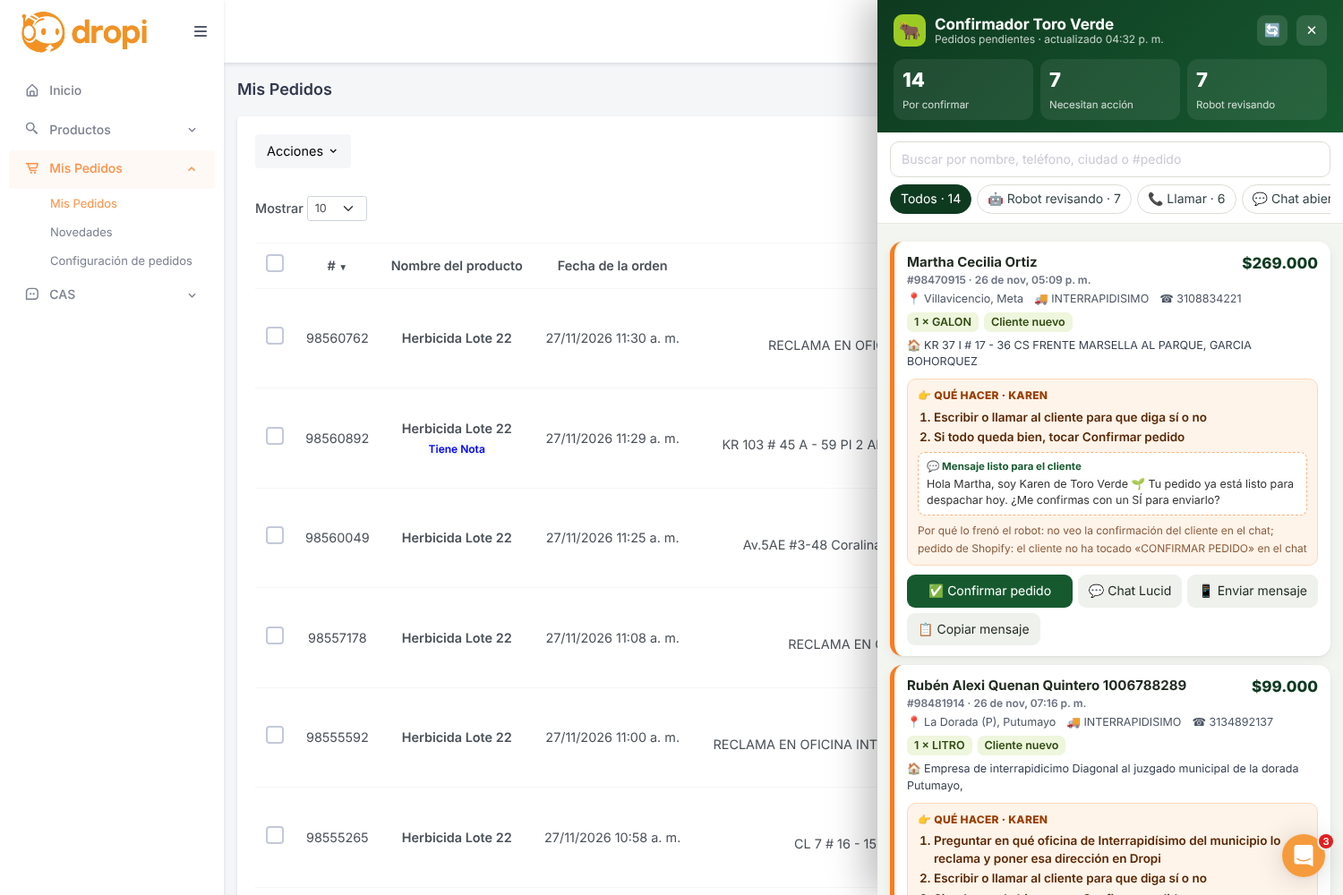
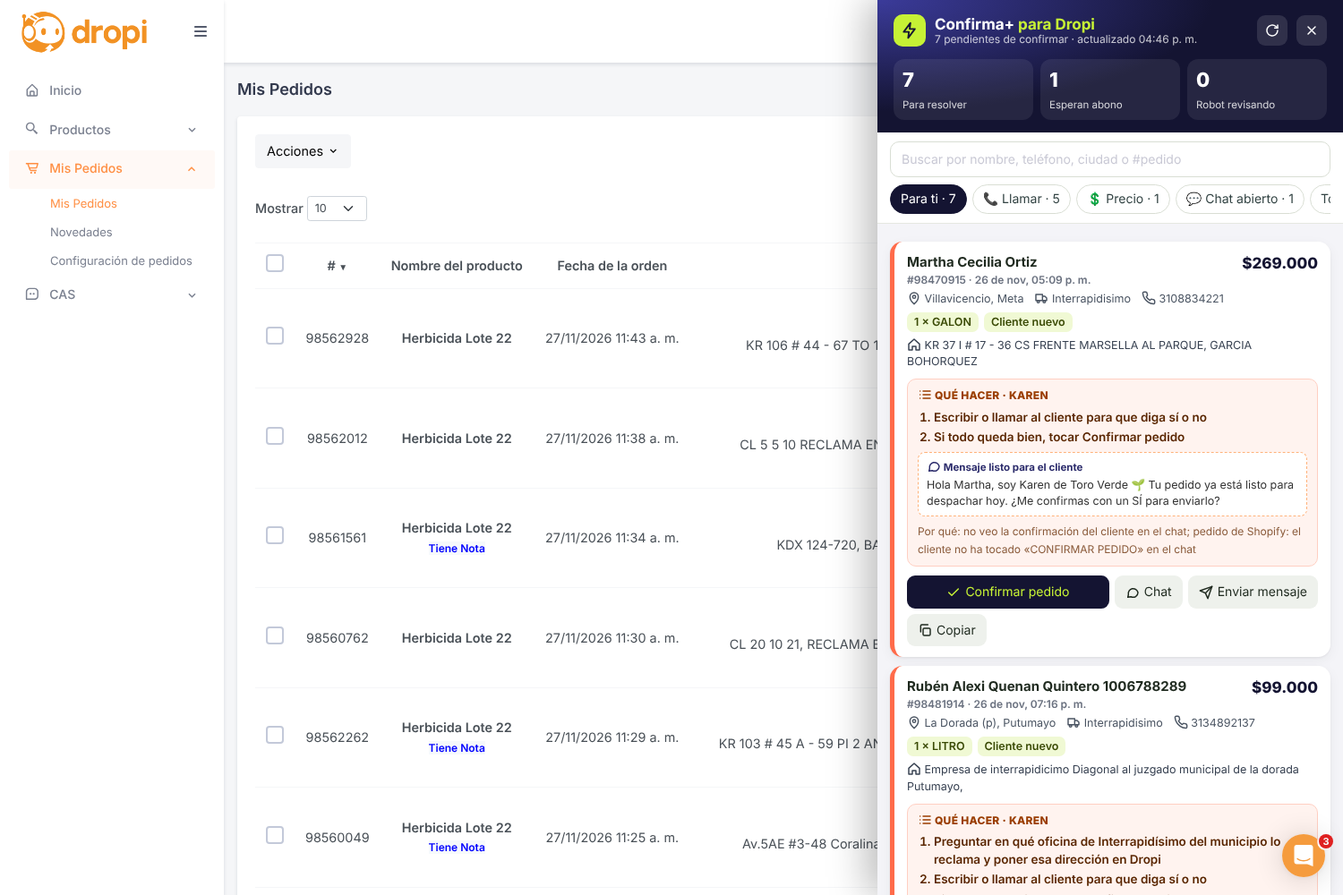
Confirma+ para Dropi v3 universal; plantilla aclarar dato; regla CAS
Claude-Session: https://claude.ai/code/session_019w2oDTrzDqc8mTA8QA1NJr

diff --git a/toro-verde/extension-dropi/confirmador.js b/toro-verde/extension-dropi/confirmador.js
@@ -34,14 +34,14 @@
   // ───────── Diseño Toro Verde (Ronald 27-11: «diseño único, buena experiencia de usuario») ─────────
   const css = document.createElement('style');
   css.textContent = `
-  :root{--tv-osc:#0e3a20;--tv-ver:#16592f;--tv-lim:#9ccc24;--tv-nar:#ff7a1a;--tv-roj:#e5484d;--tv-gri:#6b7280;--tv-fon:#f3f5f0}
+  :root{--tv-osc:#141432;--tv-ver:#2b2b6b;--tv-lim:#c6f135;--tv-nar:#ff6b4a;--tv-roj:#e5484d;--tv-gri:#6b7280;--tv-fon:#f4f4f8}
   #tvc-btn{position:fixed;right:22px;bottom:96px;z-index:100000;display:flex;align-items:center;gap:10px;background:var(--tv-osc);color:#fff;border:0;border-radius:999px;padding:12px 18px 12px 14px;font:700 15px 'Segoe UI',system-ui,sans-serif;box-shadow:0 10px 30px #0e3a2066;cursor:pointer;transition:transform .15s}
-  #tvc-btn:hover{transform:translateY(-2px)}#tvc-btn .ic{width:30px;height:30px;border-radius:50%;background:var(--tv-lim);display:grid;place-items:center;font-size:17px}
+  #tvc-btn:hover{transform:translateY(-2px)}#tvc-btn .ic{width:30px;height:30px;border-radius:50%;background:var(--tv-lim);color:var(--tv-osc);display:grid;place-items:center;font-size:17px}
   #tvc-btn .n{background:var(--tv-nar);border-radius:999px;padding:1px 8px;font-size:13px}
   #tvc{position:fixed;top:0;right:0;width:520px;max-width:100vw;height:100vh;z-index:100001;background:var(--tv-fon);box-shadow:-12px 0 40px #0004;display:none;flex-direction:column;font:14px/1.45 'Segoe UI',system-ui,sans-serif;color:#1f2a1f;animation:tvin .2s ease}
   @keyframes tvin{from{transform:translateX(40px);opacity:0}to{transform:none;opacity:1}}
-  #tvc .hd{background:linear-gradient(135deg,var(--tv-osc),var(--tv-ver));color:#fff;padding:16px 18px 14px}
-  #tvc .hd .r1{display:flex;align-items:center;gap:10px}#tvc .hd .lg{width:36px;height:36px;border-radius:10px;background:var(--tv-lim);display:grid;place-items:center;font-size:20px}
+  #tvc .hd{background:radial-gradient(120% 140% at 0% 0%,#3b3b9a 0%,var(--tv-osc) 60%);color:#fff;padding:16px 18px 14px}
+  #tvc .hd .r1{display:flex;align-items:center;gap:10px}#tvc .hd .lg{width:36px;height:36px;border-radius:10px;background:var(--tv-lim);color:var(--tv-osc);display:grid;place-items:center;font-size:20px}
   #tvc .hd b{font-size:17px;flex:1;line-height:1.1}#tvc .hd small{display:block;font-weight:400;opacity:.75;font-size:12px}
   #tvc .hd button{background:#ffffff1f;color:#fff;border:0;border-radius:9px;width:34px;height:34px;cursor:pointer;font-size:15px}#tvc .hd button:hover{background:#ffffff33}
   #tvc .kpi{display:grid;grid-template-columns:repeat(3,1fr);gap:8px;margin-top:14px}
@@ -56,18 +56,19 @@
   #tvc .cd .top{display:flex;justify-content:space-between;align-items:flex-start;padding:12px 14px 4px}#tvc .cd .nm{font-weight:700;font-size:15px}#tvc .cd .id{color:var(--tv-gri);font-size:12px;font-weight:600}
   #tvc .cd .tt{font-weight:800;font-size:17px;color:var(--tv-osc)}
   #tvc .cd .mt{padding:0 14px;color:#4b5563;font-size:12.5px;display:flex;flex-wrap:wrap;gap:4px 12px}
-  #tvc .cd .pr{padding:6px 14px 0;display:flex;flex-wrap:wrap;gap:6px}#tvc .cd .pr span{background:#eef6dd;color:#2e4a10;border-radius:7px;padding:2px 8px;font-size:12.5px;font-weight:600}
+  #tvc .cd .pr{padding:6px 14px 0;display:flex;flex-wrap:wrap;gap:6px}#tvc .cd .pr span{background:#f0f9d4;color:#3a4a05;border-radius:7px;padding:2px 8px;font-size:12.5px;font-weight:600}
   #tvc .cd .hs{border-radius:7px;padding:2px 8px;font-size:12px;font-weight:700}.hs.b{background:#dcfce7;color:#166534}.hs.m{background:#fef3c7;color:#92400e}.hs.x{background:#fee2e2;color:#991b1b}.hs.n{background:#eef0f3;color:#4b5563}
   #tvc .cd .dr{padding:6px 14px 0;font-size:12.5px;color:#374151}
-  #tvc .cd .qh{margin:10px 14px 0;background:#fff4ea;border:1px solid #ffd7b8;border-radius:10px;padding:9px 11px}
+  #tvc .cd .qh{margin:10px 14px 0;background:#fff3ef;border:1px solid #ffcfc2;border-radius:10px;padding:9px 11px}
   #tvc .cd .qh b{display:block;color:#9a3d00;font-size:13.5px}#tvc .cd .qh .qt{font-weight:800;color:#9a3d00;font-size:12px;text-transform:uppercase;letter-spacing:.3px}
   #tvc .cd .qh ol{margin:6px 0 6px 18px;padding:0;color:#5a2600;font-weight:600;font-size:13.5px}#tvc .cd .qh li{margin:3px 0}
   #tvc .cd .qh .dc{background:#fff;border:1px dashed #ffb27a;border-radius:8px;padding:7px 9px;margin:6px 0;font-size:12.5px;color:#333}#tvc .cd .qh .dc span{display:block;font-weight:700;color:var(--tv-ver);font-size:11.5px;margin-bottom:2px}
-  .tv-ojo{background:#9ca3af!important}#tvc .cd .qh small{color:#8a5a3a;font-size:12px}
+  .tv-ojo{background:#9ca3af!important;color:#fff!important}
+  .tvi{width:16px;height:16px;vertical-align:-3px;flex:none}#tvc .lg .tvi,#tvc-btn .ic .tvi{width:20px;height:20px}#tvc .cd .qh small{color:#8a5a3a;font-size:12px}
   #tvc .cd.rb .qh{background:#f3f4f2;border-color:#e2e5df}#tvc .cd.rb .qh b{color:#4b5563}
   #tvc .cd .ac{display:flex;flex-wrap:wrap;gap:6px;padding:10px 14px 12px}
-  #tvc .cd .ac button,#tvc .cd .ac a{border:0;border-radius:9px;padding:8px 12px;font:700 12.5px inherit;cursor:pointer;text-decoration:none;display:inline-flex;align-items:center;gap:5px}
-  .tv-ok{background:var(--tv-ver);color:#fff!important;flex:1;justify-content:center}.tv-ok:hover{background:var(--tv-osc)}
+  #tvc .cd .ac button,#tvc .cd .ac a{white-space:nowrap;border:0;border-radius:9px;padding:8px 12px;font:700 12.5px inherit;cursor:pointer;text-decoration:none;display:inline-flex;align-items:center;gap:5px}
+  .tv-ok{background:var(--tv-osc);color:var(--tv-lim)!important;flex:1;justify-content:center}.tv-ok:hover{background:#000}
   .tv-pr{background:var(--tv-nar);color:#fff!important}.tv-sec{background:#eef1ec;color:#1f2a1f!important}.tv-sec:hover{background:#e2e7de}
   #tvc .vc{text-align:center;color:var(--tv-gri);padding:40px 20px}#tvc .vc div{font-size:40px}
   #tvc-md{position:fixed;inset:0;z-index:100002;background:#0e3a2066;display:none;place-items:center;font:14px 'Segoe UI',system-ui,sans-serif}
@@ -76,26 +77,48 @@
   #tvc-md .bt{display:flex;gap:8px;justify-content:flex-end}#tvc-md button{border:0;border-radius:9px;padding:9px 14px;font:700 13px inherit;cursor:pointer}
   #tvc-ts{position:fixed;left:50%;bottom:28px;transform:translateX(-50%);z-index:100003;background:var(--tv-osc);color:#fff;padding:10px 16px;border-radius:10px;font:600 13.5px 'Segoe UI',system-ui;display:none;box-shadow:0 8px 24px #0004}`;
 
-  let pedidos = [], filtro = 'Todos', busca = '', actual = '';
+  const I = (d) => `<svg class="tvi" viewBox="0 0 24 24" fill="none" stroke="currentColor" stroke-width="2.2" stroke-linecap="round" stroke-linejoin="round">${d}</svg>`;
+  const IC = { bolt: I('<path d="M13 2 4 14h7l-1 8 9-12h-7z"/>'), ok: I('<path d="M20 6 9 17l-5-5"/>'), chat: I('<path d="M21 12a8 8 0 0 1-11.6 7.1L4 20l1-4.6A8 8 0 1 1 21 12z"/>'),
+    send: I('<path d="m22 2-7 20-4-9-9-4z"/><path d="M22 2 11 13"/>'), copy: I('<rect x="9" y="9" width="12" height="12" rx="2"/><path d="M5 15V5a2 2 0 0 1 2-2h10"/>'),
+    tag: I('<path d="M20.6 13.4 13.4 20.6a2 2 0 0 1-2.8 0L3 13V3h10l7.6 7.6a2 2 0 0 1 0 2.8z"/><circle cx="7.5" cy="7.5" r="1.5"/>'), pin: I('<path d="M12 22s7-6.2 7-12a7 7 0 1 0-14 0c0 5.8 7 12 7 12z"/><circle cx="12" cy="10" r="2.5"/>'),
+    truck: I('<path d="M3 6h11v10H3zM14 9h4l3 3v4h-7"/><circle cx="7" cy="18" r="2"/><circle cx="17" cy="18" r="2"/>'), phone: I('<path d="M22 16.9v3a2 2 0 0 1-2.2 2 19.8 19.8 0 0 1-8.6-3.1 19.5 19.5 0 0 1-6-6A19.8 19.8 0 0 1 2.1 4.2 2 2 0 0 1 4.1 2h3a2 2 0 0 1 2 1.7c.1.9.4 1.8.7 2.7a2 2 0 0 1-.5 2.1L8 9.8a16 16 0 0 0 6 6l1.3-1.3a2 2 0 0 1 2.1-.5c.9.3 1.8.6 2.7.7a2 2 0 0 1 1.7 2z"/>'),
+    home: I('<path d="M3 11 12 3l9 8v10h-6v-6H9v6H3z"/>'), refresh: I('<path d="M21 12a9 9 0 1 1-3-6.7L21 8"/><path d="M21 3v5h-5"/>'), x: I('<path d="M18 6 6 18M6 6l12 12"/>'),
+    alert: I('<path d="M12 9v4M12 17h.01"/><path d="M10.3 3.9 1.8 18a2 2 0 0 0 1.7 3h17a2 2 0 0 0 1.7-3L13.7 3.9a2 2 0 0 0-3.4 0z"/>'), list: I('<path d="M9 6h12M9 12h12M9 18h12M4 6h.01M4 12h.01M4 18h.01"/>') };
+  let pedidos = [], filtro = 'Para ti', busca = '', actual = '';
   const toast = (t) => { const e = document.getElementById('tvc-ts'); e.textContent = t; e.style.display = 'block'; clearTimeout(e._t); e._t = setTimeout(() => e.style.display = 'none', 2600); };
   const corto = (q) => /llam/i.test(q) ? '📞 Llamar' : /plata|pago|banco/i.test(q) ? '💰 Pago' : /precio/i.test(q) ? '💲 Precio' : /cantidad/i.test(q) ? '📦 Cantidad'
-    : /direcc|oficina/i.test(q) ? '📍 Dirección' : /devolverla al bot|conversaci/i.test(q) ? '💬 Chat abierto' : /abono|devuelve/i.test(q) ? '🔁 Abono' : /Ronald/i.test(q) ? '👤 Ronald' : /robot/i.test(q) ? '🤖 Robot revisando' : '🔎 Revisar';
+    : /direcc|oficina/i.test(q) ? '📍 Dirección' : /devolverla al bot|conversaci/i.test(q) ? '💬 Chat abierto' : /abono|devuelve/i.test(q) ? '🔁 Abono' : /Ronald/i.test(q) ? '👤 Ronald' : /robot/i.test(q) ? 'Robot revisando' : '🔎 Revisar';
   const pasos = (q) => q.split(/\s*\d\)\s+/).filter(Boolean).map(x => `<li>${x.replace(/\.$/, '')}</li>`).join('');
   function historial(o) {
     const t = +o.client_total_orders || 0, e = +o.client_total_orders_delivered || 0, d = +o.client_total_orders_returneds || 0;
     if (!(e + d)) return `<span class="hs n">Cliente nuevo</span>`;
     const p = Math.round(100 * e / (e + d)); return `<span class="hs ${p >= 70 ? 'b' : p > 50 ? 'm' : 'x'}">Recibe ${e} de ${e + d} (${p} %)</span>`;
   }
+  // Universal: sirve en cualquier tienda de Dropi. Si un robot dejó nota («🤖 ROBOT · POR QUÉ · QUÉ HACER · QUIÉN · DECIR»), manda la nota;
+  // si no, la extensión revisa sola los datos del pedido (historial del cliente, dirección, repetidos) y propone los pasos.
+  function propio(o) {
+    const e = +o.client_total_orders_delivered || 0, d = +o.client_total_orders_returneds || 0, n = (o.name || '').split(' ')[0];
+    const pasos = [], por = []; let decir = '';
+    if (d > e) { por.push(`devolvió ${d} y recibió ${e}`); pasos.push('NO confirmar todavía: pedir un abono o llamar para asegurar que lo va a recibir'); decir = `Hola ${n}, te escribimos por tu pedido 🙌 Para despacharlo te pedimos un abono; el resto lo pagas al recibir. ¿Te comparto los datos?`; }
+    const dir = String(o.dir || '');
+    if (!/oficina|reclama/i.test(dir) && !/\d+\s*[a-z]?\s*-\s*\d+|#\s*\d+|casa\s*\d+|mz/i.test(dir)) { por.push('la dirección no tiene número de casa'); pasos.push('Pedir la dirección completa con número de casa y un punto de referencia, y corregirla'); decir = decir || `Hola ${n}, para despachar tu pedido nos falta la dirección completa: calle, número de casa, barrio y un punto de referencia. ¿Nos la compartes?`; }
+    if (+o.ordenes_repetidas > 0 || (Array.isArray(o.ordenes_repetidas) && o.ordenes_repetidas.length)) { por.push('tiene otro pedido parecido'); pasos.push('Preguntar si son dos pedidos o uno repetido'); }
+    if (!pasos.length) { pasos.push('Revisar el chat del cliente: que haya aceptado producto, precio y dirección'); decir = `Hola ${n}, tu pedido ya está listo para despachar hoy. ¿Nos confirmas con un SÍ para enviarlo?`; }
+    if (!/NO confirmar/.test(pasos.join())) pasos.push('Si todo queda bien, tocar Confirmar pedido');
+    return { que: pasos.map((p, i) => `${i + 1}) ${p}.`).join(' '), por: por.join(', ') || 'sin revisión automática', decir };
+  }
   function info(o) {
     const nota = String(o.notes || '').split(' | ').find(x => x.startsWith('🤖 ROBOT')) || '';
-    const que = nota ? parte(nota, 'QUÉ HACER') : 'El robot lo está revisando en este momento. Espera la próxima vuelta o confírmalo tú si ya revisaste el chat.';
-    return { nota, que, tipo: nota ? corto(que) : '🤖 Robot revisando' };
+    if (nota) { const que = parte(nota, 'QUÉ HACER'); return { nota, que, por: parte(nota, 'POR QUÉ'), quien: parte(nota, 'QUIÉN') || 'Equipo', decir: parte(nota, 'DECIR'), tipo: corto(que), robot: true }; }
+    const recien = Date.now() - new Date(o.created_at).getTime() < 40 * 60 * 1000;   // el robot pasa cada 15-30 min
+    if (recien && window.__tvRobot) return { nota: '', que: 'El robot lo está revisando. Espera unos minutos.', tipo: 'Robot revisando', robot: true };
+    const pr = propio(o); return { nota: 'propio', que: pr.que, por: pr.por, quien: 'Equipo', decir: pr.decir, tipo: corto(pr.que), robot: false };
   }
   async function cargar() {
     const ls = document.querySelector('#tvc .ls');
     auth = tokLS() || auth;
     if (!auth || !userId) { ls.innerHTML = '<div class="vc"><div>🔑</div>Abre «Mis Pedidos» de Dropi una vez para tomar la sesión y toca 🔄.</div>'; return; }
-    ls.innerHTML = '<div class="vc"><div>⏳</div>Cargando pedidos por confirmar…</div>';
+    ls.innerHTML = '<div class="vc"><div>…</div>Cargando pedidos por confirmar…</div>';
     const f = (d) => d.toISOString().slice(0, 10);
     const r = await api('GET', `/orders/myorders/v2?exportAs=orderByRow&orderBy=id&orderDirection=desc&result_number=300&start=0&textToSearch=&status=PENDIENTE%20CONFIRMACION&supplier_id=false&user_id=${userId}&from=${f(new Date(Date.now() - 10 * 864e5))}&until=${f(new Date(Date.now() + 864e5))}&filter_date_by=FECHA%20DE%20CREADO`);
     if (r.s !== 200) { ls.innerHTML = `<div class="vc"><div>⚠</div>Dropi respondió con error (${r.s}). Toca 🔄 en un momento.</div>`; return; }
@@ -105,34 +128,38 @@
   }
   function pintar() {
     const p = document.getElementById('tvc'); if (!p) return;
+    window.__tvRobot = pedidos.some(o => String(o.notes || '').includes('🤖 ROBOT'));
     const it = pedidos.map(o => ({ o, ...info(o) }));
-    const conAcc = it.filter(x => x.nota).length;
-    p.querySelector('.kpi').innerHTML = `<div><span>${it.length}</span><em>Por confirmar</em></div><div><span>${conAcc}</span><em>Necesitan acción</em></div><div><span>${it.length - conAcc}</span><em>Robot revisando</em></div>`;
-    p.querySelector('.hd small').textContent = `Pedidos pendientes · actualizado ${actual}`;
-    const n = document.querySelector('#tvc-btn .n'); if (n) n.textContent = it.length;
+    const tuyos = it.filter(x => x.tipo !== 'Robot revisando');
+    p.querySelector('.kpi').innerHTML = `<div><span>${tuyos.length}</span><em>Para resolver</em></div><div><span>${it.filter(x => /NO confirmar/.test(x.que)).length}</span><em>Esperan abono</em></div><div><span>${it.length - tuyos.length}</span><em>Robot revisando</em></div>`;
+    p.querySelector('.hd small').textContent = `${it.length} pendientes de confirmar · actualizado ${actual}`;
+    const n = document.querySelector('#tvc-btn .n'); if (n) n.textContent = tuyos.length;
     const tipos = {}; it.forEach(x => tipos[x.tipo] = (tipos[x.tipo] || 0) + 1);
-    p.querySelector('.ch').innerHTML = ['Todos', ...Object.keys(tipos).sort((a, b) => tipos[b] - tipos[a])].map(t => `<button data-f="${t}" class="${t === filtro ? 'on' : ''}">${t}${t === 'Todos' ? ` · ${it.length}` : ` · ${tipos[t]}`}</button>`).join('');
+    const chips = ['Para ti', ...Object.keys(tipos).filter(t => t !== 'Robot revisando').sort((a, b) => tipos[b] - tipos[a]), ...(tipos['Robot revisando'] ? ['Robot revisando'] : []), 'Todos'];
+    const cuenta = (t) => t === 'Todos' ? it.length : t === 'Para ti' ? tuyos.length : tipos[t];
+    p.querySelector('.ch').innerHTML = chips.map(t => `<button data-f="${t}" class="${t === filtro ? 'on' : ''}">${t} · ${cuenta(t)}</button>`).join('');
     const q = busca.toLowerCase();
-    const vis = it.filter(x => (filtro === 'Todos' || x.tipo === filtro) && (!q || `${x.o.id} ${x.o.name} ${x.o.surname} ${x.o.phone} ${x.o.city}`.toLowerCase().includes(q)))
-      .sort((a, b) => (!!b.nota - !!a.nota) || (a.o.id - b.o.id));
+    const vis = it.filter(x => (filtro === 'Todos' || (filtro === 'Para ti' ? x.tipo !== 'Robot revisando' : x.tipo === filtro)) && (!q || `${x.o.id} ${x.o.name} ${x.o.surname} ${x.o.phone} ${x.o.city}`.toLowerCase().includes(q)))
+      .sort((a, b) => a.o.id - b.o.id);
     const ls = p.querySelector('.ls');
-    if (!vis.length) { ls.innerHTML = `<div class="vc"><div>🎉</div>${it.length ? 'Nada con ese filtro.' : 'No hay pedidos pendientes de confirmar.'}</div>`; return; }
-    ls.innerHTML = vis.map(({ o, nota, que, tipo }) => {
+    if (!vis.length) { ls.innerHTML = `<div class="vc"><div>${IC.ok}</div>${it.length ? (filtro === 'Para ti' ? '¡Nada pendiente para ti! El robot está con el resto.' : 'Nada con ese filtro.') : 'No hay pedidos pendientes de confirmar.'}</div>`; return; }
+    const tit = (x) => String(x || '').toLowerCase().split(' ').map(w => w.charAt(0).toUpperCase() + w.slice(1)).join(' ');
+    ls.innerHTML = vis.map(({ o, que, por, quien, decir, tipo, robot }) => {
       const tel = String(o.phone || '').slice(-10);
       const prods = (o.orderdetails || []).map(d => `<span>${Math.round(+d.quantity || 1)} × ${((d.variation || {}).attribute_values || []).map(a => a.value).join(' ') || (d.product || {}).name || 'producto'}</span>`).join('');
-      const nuevo = (que.match(/precio en Dropi a \$([\d.]+)/) || [])[1];
-      const chat = lucid(tel); const decir = parte(nota, 'DECIR');
-      return `<div class="cd ${nota ? '' : 'rb'}" data-id="${o.id}">
-        <div class="top"><div><div class="nm">${(o.name || '') + ' ' + (o.surname || '')}</div><div class="id">#${o.id} · ${new Date(o.created_at).toLocaleString('es-CO', { day: '2-digit', month: 'short', hour: '2-digit', minute: '2-digit' })}</div></div><div class="tt">${plata(o.total_order)}</div></div>
-        <div class="mt"><span>📍 ${(o.city || '').toLowerCase().replace(/\b\w/g, c => c.toUpperCase())}, ${(o.state || '').toLowerCase().replace(/\b\w/g, c => c.toUpperCase())}</span><span>🚚 ${(o.distribution_company || {}).name || '—'}</span><span>☎ ${tel}</span></div>
+      const nuevo = (String(que).match(/precio en Dropi a \$([\d.]+)/) || [])[1];
+      const chat = lucid(tel); const espera = tipo === 'Robot revisando'; const ojo = /NO confirmar/.test(que);
+      return `<div class="cd ${espera ? 'rb' : ''}" data-id="${o.id}">
+        <div class="top"><div><div class="nm">${tit(o.name)} ${tit(o.surname)}</div><div class="id">#${o.id} · ${new Date(o.created_at).toLocaleString('es-CO', { day: '2-digit', month: 'short', hour: '2-digit', minute: '2-digit' })}</div></div><div class="tt">${plata(o.total_order)}</div></div>
+        <div class="mt"><span>${IC.pin} ${tit(o.city)}, ${tit(o.state)}</span><span>${IC.truck} ${tit((o.distribution_company || {}).name) || '—'}</span><span>${IC.phone} ${tel}</span></div>
         <div class="pr">${prods}${historial(o)}</div>
-        <div class="dr">🏠 ${o.dir || ''}</div>
-        <div class="qh">${nota ? `<div class="qt">👉 Qué hacer · ${parte(nota, 'QUIÉN') || 'Karen'}</div><ol>${pasos(que)}</ol>${decir ? `<div class="dc"><span>💬 Mensaje listo para el cliente</span>${decir}</div>` : ''}<small>Por qué lo frenó el robot: ${parte(nota, 'POR QUÉ')}</small>` : `<b>${que}</b>`}</div>
-        <div class="ac"><button class="tv-ok ${/NO confirmar/.test(que) ? 'tv-ojo' : ''}" data-acc="ok">${/NO confirmar/.test(que) ? '⚠ Confirmar igual' : '✅ Confirmar pedido'}</button>
-          ${nuevo ? `<button class="tv-pr" data-acc="precio" data-v="${nuevo.replace(/\./g, '')}">💲 Precio a $${nuevo}</button>` : ''}
-          ${chat ? `<a class="tv-sec" target="_blank" href="${chat}">💬 Chat Lucid</a>` : `<button class="tv-sec tv-aprender">💬 Chat Lucid</button>`}
-          ${tel ? `<a class="tv-sec" target="_blank" href="https://wa.me/57${tel}${decir ? '?text=' + encodeURIComponent(decir) : ''}">📱 ${decir ? 'Enviar mensaje' : 'WhatsApp'}</a>` : ''}
-          ${decir ? `<button class="tv-sec" data-acc="copiar" data-t="${encodeURIComponent(decir)}">📋 Copiar mensaje</button>` : ''}</div></div>`;
+        <div class="dr">${IC.home} ${o.dir || ''}</div>
+        <div class="qh">${espera ? `<b>${que}</b>` : `<div class="qt">${IC.list} Qué hacer · ${quien}${robot ? '' : ' · revisión de la extensión'}</div><ol>${pasos(que)}</ol>${decir ? `<div class="dc"><span>${IC.chat} Mensaje listo para el cliente</span>${decir}</div>` : ''}<small>Por qué: ${por}</small>`}</div>
+        <div class="ac"><button class="tv-ok ${ojo ? 'tv-ojo' : ''}" data-acc="ok">${ojo ? IC.alert + ' Confirmar igual' : IC.ok + ' Confirmar pedido'}</button>
+          ${nuevo ? `<button class="tv-pr" data-acc="precio" data-v="${nuevo.replace(/\./g, '')}">${IC.tag} Precio a $${nuevo}</button>` : ''}
+          ${chat ? `<a class="tv-sec" target="_blank" href="${chat}">${IC.chat} Chat</a>` : `<button class="tv-sec tv-aprender">${IC.chat} Chat</button>`}
+          ${tel ? `<a class="tv-sec" target="_blank" href="https://wa.me/57${tel}${decir ? '?text=' + encodeURIComponent(decir) : ''}">${IC.send} ${decir ? 'Enviar mensaje' : 'WhatsApp'}</a>` : ''}
+          ${decir ? `<button class="tv-sec" data-acc="copiar" data-t="${encodeURIComponent(decir)}">${IC.copy} Copiar</button>` : ''}</div></div>`;
     }).join('');
   }
   async function anotar(id, texto) {
@@ -169,9 +196,9 @@
   function montar() {
     if (!document.body || document.getElementById('tvc-btn')) return;
     document.head.appendChild(css);
-    const b = document.createElement('button'); b.id = 'tvc-btn'; b.innerHTML = '<span class="ic">🐂</span>Confirmador <span class="n">·</span>'; document.body.appendChild(b);
+    const b = document.createElement('button'); b.id = 'tvc-btn'; b.innerHTML = `<span class="ic">${IC.bolt}</span>Confirma+ <span class="n">·</span>`; document.body.appendChild(b);
     const p = document.createElement('div'); p.id = 'tvc';
-    p.innerHTML = `<div class="hd"><div class="r1"><div class="lg">🐂</div><b>Confirmador Toro Verde<small>Pedidos pendientes</small></b><button data-x="r" title="Actualizar">🔄</button><button data-x="c" title="Cerrar">✕</button></div><div class="kpi"></div></div>
+    p.innerHTML = `<div class="hd"><div class="r1"><div class="lg">${IC.bolt}</div><b>Confirma+ <span style="color:var(--tv-lim)">para Dropi</span><small>Pedidos pendientes</small></b><button data-x="r" title="Actualizar">${IC.refresh}</button><button data-x="c" title="Cerrar">${IC.x}</button></div><div class="kpi"></div></div>
       <div class="tl"><input placeholder="Buscar por nombre, teléfono, ciudad o #pedido"><div class="ch"></div></div><div class="ls"></div>`;
     document.body.appendChild(p);
     const md = document.createElement('div'); md.id = 'tvc-md'; document.body.appendChild(md);
@@ -179,7 +206,8 @@
     b.onclick = () => { p.style.display = 'flex'; cargar(); };
     p.querySelector('input').oninput = (e) => { busca = e.target.value; pintar(); };
     p.addEventListener('click', (ev) => {
-      const t = ev.target.closest('button,a') || ev.target;
+      let t = ev.target.closest('button,a') || ev.target;
+      const x = t.closest && t.closest('[data-x]'); if (x) t = x;
       if (t.dataset.x === 'c') p.style.display = 'none'; if (t.dataset.x === 'r') cargar();
       if (t.dataset.f) { filtro = t.dataset.f; pintar(); }
       if (t.dataset.acc) accion(t);

diff --git a/toro-verde/robot-despacho/aclarar.py b/toro-verde/robot-despacho/aclarar.py
@@ -1,5 +1,6 @@
 # Le escribe al cliente por Lucid cuando la dirección o el nombre no son claros (una vez por pedido, 7 a. m.–9 p. m., ventana de 24 h abierta).
-import json, os, time, urllib.request, datetime
+import json, os, time, urllib.request, urllib.parse, datetime
+FLUJO_ACLARAR, CAMPO_DATO2 = '1795794788926', '608743'  # plantilla aclarar_dato_pedido_tv (Ronald 27-11) y campo «Robot dato 2»
 os.chdir(os.path.dirname(os.path.dirname(os.path.abspath(__file__))))
 K = open('lucidbot.key').read().strip(); REG = '/tmp/dropi/aclaraciones.json'
 reg = json.load(open(REG)) if os.path.exists(REG) else {}
@@ -15,8 +16,19 @@ for a in json.load(open('/tmp/dropi/acciones.json')):
     d = det.get(a['id'], {}); c = d.get('chat') or '57' + d.get('phone', '')
     try:
         info = get(f'/contacts/{c}'); info = info.get('data', info)
-        if info.get('live_chat') or (time.time() - float(info.get('last_interaction') or 0) / 1000) > 23 * 3600: continue
+        if info.get('live_chat'): continue
+        cerrado = (time.time() - float(info.get('last_interaction') or 0) / 1000) > 23 * 3600
     except Exception: continue
+    if cerrado:
+        # Ronald 27-11 creó la plantilla «aclarar_dato_pedido_tv» (flujo «Robot - aclarar dato»): «…solo me falta un dato para despacharlo: {{2}}»
+        dato = ('tu nombre completo como aparece en la cédula' if 'nombre raro' in m else
+                f"¿lo envío a tu casa o lo reclamas en la oficina de Interrapidísimo de {(d.get('city') or '').title()}? Si es a tu casa, mándame la dirección con número y un punto de referencia")
+        try:
+            urllib.request.urlopen(urllib.request.Request(f'https://panel.lucidbot.co/api/contacts/{c}/custom_fields/{CAMPO_DATO2}', data=urllib.parse.urlencode({'value': dato}).encode(), headers={'X-ACCESS-TOKEN': K, 'Content-Type': 'application/x-www-form-urlencoded'}, method='POST'), timeout=40).read()
+            r = urllib.request.urlopen(urllib.request.Request(f'https://panel.lucidbot.co/api/contacts/{c}/send/{FLUJO_ACLARAR}', data=b'{}', headers={'X-ACCESS-TOKEN': K, 'Content-Type': 'application/json'}, method='POST'), timeout=40).read().decode()
+        except Exception as e: print('ACLARAR_PLANTILLA_ERROR', a['id'], str(e)[:60]); continue
+        if 'true' in r: reg[str(a['id'])] = {'contacto': c, 'enviado': time.time(), 'motivo': m, 'via': 'plantilla'}; n += 1
+        continue
     nom = (d.get('name') or '').split(' ')[0].capitalize()
     if 'nombre raro' in m: t = f"¡Hola {nom}! 🌱 Para despachar tu pedido de Toro Verde, confírmame por favor tu nombre completo como aparece en la cédula 🙏"
     else: t = f"¡Hola {nom}! 🌱 Para que tu pedido de Toro Verde llegue sin problema, ¿me confirmas la dirección completa con el número de la puerta? Ej.: Calle 12 # 5-30, y una referencia. Si prefieres reclamarlo en la oficina de Interrapidísimo de {(d.get('city') or '').title()}, dime y lo dejo así 🚚"

diff --git a/toro-verde/robot-despacho/cas_auto.py b/toro-verde/robot-despacho/cas_auto.py
@@ -61,7 +61,7 @@ REGLAS = [
     ('DEVOLUCION', r'devoluci[oó]n|devuelt|retorno a (origen|remitente)|en devoluci'),
     ('NOVEDAD_CLIENTE', r'no (contesta|responde|se encontr)|direcci[oó]n (errada|incorrecta|incompleta|no existe)|destinatario (ausente|no)|rehus|cerrado'),
     ('CICLO', r'intentos? de entrega fallidos|no es posible programar|cumplido (su|el) ciclo|agot\w+ (los )?intentos'),
-    ('ESPERA', r'reexpedi|reparto|despachad|programad|en ruta|novedad operativa|inconvenientes operativos|regional|escala|en tr[aá]nsito|pr[oó]xim\w* d[ií]as|recomend|nuevo intento|intentos? de entrega|tardar|d[ií]as h[aá]biles'),
+    ('ESPERA', r'reexpedi|reparto|despachad|programad|en ruta|novedad operativa|inconvenientes operativos|regional|escala|en tr[aá]nsito|pr[oó]xim\w* d[ií]as|recomend|nuevo intento|intentos? de entrega|tardar|d[ií]as h[aá]biles|ingresad\w* a bodega|atento al movimiento'),
 ]
 
 def ultimo_util(h):

diff --git a/toro-verde/ESTADO.md b/toro-verde/ESTADO.md
@@ -1004,3 +1004,4 @@ Carpeta Flujos / Recompra, 20 flujos, todos con Estado y Bandeja de Entrada ence
 - 27-11 1:15 p. m.: Black Friday (solo quien nunca compró, hasta dom 30-11 5 p. m.): razonar.py acepta 2 L $149.900, galón $239.900, poma $899.900 y los trata como descuento (si ya compró, frena para decidir precio). Notas en Dropi dicen a cuánto cambiar precio o cantidad. Extensión v1.1: solo pedidos sin confirmar; «Abrir chat en Lucid» aprende el enlace pegando una vez la dirección de un chat.
 - 27-11 10:45 a. m. — ARREGLO CASINO (Ronald: «gente compra, luego le llega la ruleta y quiere cancelar para pedir con descuento»). Hoy ~6 % de los que recibieron el casino ya tenían pedido en el chat (7 de 120 revisados). casino_envio.py y casino_recordar.py ahora excluyen: (1) a todo el que tenga pedido en el historial completo del embudo 705299 (antes solo 15 días; ya no va a recompra), y (2) a quien tenga en el chat «Resumen de tu pedido», «Total pedido», «CONFIRMAR PEDIDO», número de guía, «ya pedí/ya compré»; si el chat no se puede leer, no se envía. Respaldos *.bak_antes_sincompra.py.
 - 27-11 4:40 p. m.: Confirmador Toro Verde v2.0 (extensión Dropi): panel con pendientes, KPIs, filtros, buscador, pasos exactos de qué hacer, mensaje listo para el cliente (WhatsApp con texto o copiar), historial, botones Confirmar / Precio / Chat Lucid; todo por API de Dropi, sin IA. Probado en Dropi real (14 pendientes). notas_revisar.py v2: pasos numerados + DECIR. Black Friday activo hasta 30-11 5 p. m.
+- 27-11 4:50 p. m.: Confirma+ para Dropi v3.0 (extensión universal): paleta e íconos propios, filtro «Para ti», revisión propia si no hay robot, mensajes listos. Probado en Dropi real (7-8 pendientes). aclarar.py usa la plantilla «Robot - aclarar dato» (1795794788926, campo Robot dato 2) con chat cerrado. Fichas: Marcelino (98548824) a domicilio Mz F casa 9 C Hacienda La Miel y confirmado; Mauricio (98560762) confirmado; Sandra (98561561) frenada por confirmar.js (Dropi: 0 entregados 1 devuelto). CAS: 2 mensajes como Karen; regla nueva «ingresado a bodega» → ESPERA.

diff --git a/toro-verde/extension-dropi/LEEME.md b/toro-verde/extension-dropi/LEEME.md
@@ -1,9 +1,9 @@
-# Confirmador Toro Verde · extensión para Dropi (v2.0)
+# Confirma+ para Dropi (v3.0)
 
 Dropi con esteroides para confirmar pedidos, **sin IA y sin salir de Dropi**.
 
 ## Qué hace
-- Botón **🐂 Confirmador** abajo a la derecha en Dropi. Abre un panel con TODOS los pedidos pendientes de confirmar.
+- Botón **⚡ Confirma+** abajo a la derecha en Dropi. Abre un panel con TODOS los pedidos pendientes de confirmar.
 - Arriba: cuántos hay por confirmar, cuántos necesitan acción y cuántos está revisando el robot.
 - Filtros por tipo de acción (Llamar, Pago, Precio, Dirección, Chat abierto…) y buscador.
 - Cada pedido trae:
@@ -18,5 +18,9 @@ Dropi con esteroides para confirmar pedidos, **sin IA y sin salir de Dropi**.
 1. Descomprime `extension-dropi.zip`.
 2. Chrome → `chrome://extensions` → prende **Modo de desarrollador**.
 3. **Cargar descomprimida** → elige la carpeta. (Si ya estaba, toca 🔄 «Actualizar» en la extensión.)
-4. Abre Dropi → Mis Pedidos → toca **🐂 Confirmador**.
+4. Abre Dropi → Mis Pedidos → toca **⚡ Confirma+**.
 5. La primera vez que toques «Chat Lucid», pega la dirección de cualquier chat abierto en Lucid.
+
+## Versión 3.0
+- Universal: sirve para cualquier tienda de Dropi. Si hay un robot que deja notas («🤖 ROBOT …»), las usa; si no, la extensión revisa sola historial, dirección y repetidos.
+- Filtro «Para ti»: solo lo que necesita una persona. Íconos y colores propios.
